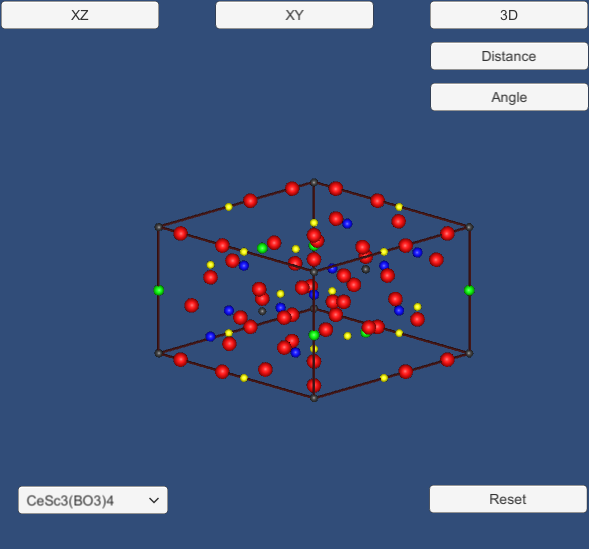
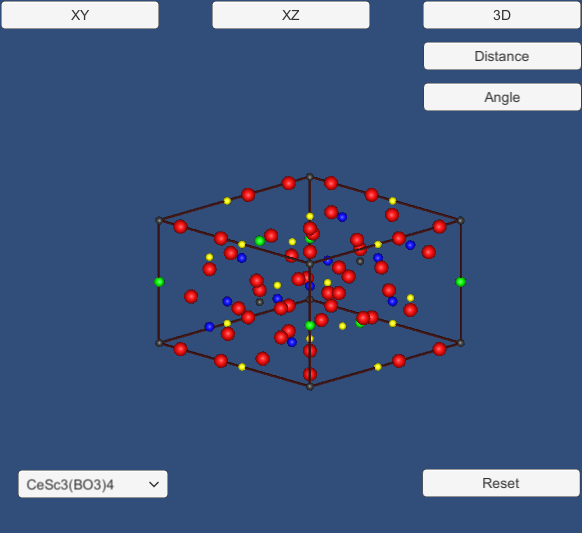
Что-то измененно

diff --git a/Assets/CreateElementsScript.cs b/Assets/CreateElementsScript.cs
@@ -46,6 +46,50 @@ public static class Info
         return d;
     }
     public static CreateElementsScript scr = null;
+
+    /* Получает на вход вектор с координатами 0..1
+    * А возвращет новый вектор (0..a,0..b,0..c)
+    */
+    public static void Scale(ref Vector3 vect)
+    {
+        vect.Set(vect.x * Info.a, vect.y * Info.b, vect.z * Info.c);
+    }
+
+    public static void normalize(ref Vector3 vect)
+    {
+        vect.x = vect.x < 0 ? vect.x + 1 : vect.x > 1 ? vect.x - 1 : vect.x;
+        vect.y = vect.y < 0 ? vect.y + 1 : vect.y > 1 ? vect.y - 1 : vect.y;
+        vect.z = vect.z < 0 ? vect.z + 1 : vect.z > 1 ? vect.z - 1 : vect.z;
+    }
+
+    public static float alpha = 120;
+
+    public static void transToUSC(ref Vector3 vect)
+    {
+        float alphaInRad = 2 * Mathf.PI / 360 * alpha;
+        vect.x = vect.x + vect.y * Mathf.Cos(alphaInRad);
+        vect.y = vect.y * Mathf.Sin(alphaInRad);
+    }
+
+    public static void YZSwap(ref Vector3 vect)
+    {
+        float k = vect.z;
+        vect.z = vect.y;
+        vect.y = k;
+    }
+
+    public static void transToOrt(ref Vector3 vect)
+    {
+        float alphaInRad = 2 * Mathf.PI / 360 * alpha;
+        vect.y = vect.y / Mathf.Sin(alphaInRad);
+        vect.x = vect.x - vect.y * Mathf.Cos(alphaInRad);
+
+    }
+
+    public static void deScale(ref Vector3 vect)
+    {
+        vect.Set(vect.x / Info.a, vect.y / Info.b, vect.z / Info.c);
+    }
 }
 
 public class CreateElementsScript : MonoBehaviour {
@@ -102,38 +146,9 @@ public class CreateElementsScript : MonoBehaviour {
     }
 
    
-    /* Получает на вход вектор с координатами 0..1
-     * А возвращет новый вектор (0..a,0..b,0..c)
-     */
-    void Scale(ref Vector3 vect)
-    {
-        vect.Set(vect.x * Info.a, vect.y * Info.b, vect.z * Info.c);
-    }
 
-    void normalize(ref Vector3 vect)
-    {
-        vect.x = vect.x < 0 ? vect.x + 1 : vect.x > 1 ? vect.x - 1 : vect.x;
-        vect.y = vect.y < 0 ? vect.y + 1 : vect.y > 1 ? vect.y - 1 : vect.y;
-        vect.z = vect.z < 0 ? vect.z + 1 : vect.z > 1 ? vect.z - 1 : vect.z;
-    }
 
-    private float alpha = 120;
-
-    void transToUSC(ref Vector3 vect)
-    {
-        float alphaInRad = 2*Mathf.PI/360*alpha;
-        vect.x = vect.x + vect.y * Mathf.Cos(alphaInRad);
-        vect.y = vect.y * Mathf.Sin(alphaInRad);
-    }
-
-    void YZSwap(ref Vector3 vect)
-    {
-        float k = vect.z;
-        vect.z = vect.y;
-        vect.y = k;
-    }
-
-    List<GameObject> ReplicateItem(GameObject obj,Vector3 locate)
+    List<GameObject> ReplicateItem(GameObject obj,Vector3 locate, bool addHiden)
     {
         List<GameObject> thisAtoms = new List<GameObject>();
         List<Vector3> list = new List<Vector3>();
@@ -148,17 +163,48 @@ public class CreateElementsScript : MonoBehaviour {
         for(int i=1; i <=list.Count; i++)
         {
             Vector3 el = list[i-1];
-            normalize(ref el);
-            Scale(ref el);
-            transToUSC(ref el);
-            YZSwap(ref el);
+            Info.normalize(ref el);
+            Info.Scale(ref el);
+            Info.transToUSC(ref el);
+            Info.YZSwap(ref el);
             if (HaveElement(el))
                 continue;
-            GameObject NewObj = (GameObject)Instantiate(obj, el, Quaternion.identity);
-            NewObj.name = "";
-            NewObj.name = NewObj.tag +" " + listInd[i-1].ToString();
-            NewObj.transform.parent = this.transform;
-            thisAtoms.Add(NewObj);
+            if (addHiden == false)
+            {
+                GameObject NewObj = (GameObject)Instantiate(obj, el, Quaternion.identity);
+                NewObj.name = "";
+                NewObj.name = NewObj.tag + " " + listInd[i - 1].ToString();
+                NewObj.transform.parent = this.transform;
+                thisAtoms.Add(NewObj);
+            }
+            else
+            {
+                for (float x = -1; x <= 1; x++)
+                    for (float y = -1; y <= 1; y++)
+                        for (float z = -1; z <= 1; z++)
+                        {
+                            Vector3 add = new Vector3(x, y, z);
+                            Info.Scale(ref add);
+                            Info.transToUSC(ref add);
+                            Info.YZSwap(ref add);
+                            add += el;
+                            GameObject NewObj = (GameObject)Instantiate(obj, add, Quaternion.identity);
+                            NewObj.name = "";
+                            Vector3 addSc = new Vector3(add.x,add.y,add.z);
+                            Info.YZSwap(ref addSc);
+                            Info.transToOrt(ref addSc);
+                            Info.deScale(ref addSc);
+                            if (addSc.x >= 0 && addSc.x <= 1 && addSc.y >= 0 
+                                && addSc.y <= 1 && addSc.z >= 0 && addSc.z <= 1)
+                                NewObj.SetActive(true);
+                            else
+                                NewObj.SetActive(false);
+                            NewObj.name = NewObj.tag + " " + listInd[i - 1].ToString();
+                            NewObj.transform.parent = this.transform;
+                            thisAtoms.Add(NewObj);
+                 
+                        }
+            }
         }
         return thisAtoms;
     }
@@ -263,54 +309,6 @@ public class CreateElementsScript : MonoBehaviour {
         return false;
     }
 
-    public void CreateLantans()
-    {
-        var children = new List<GameObject>();
-        foreach (Transform child in elements.transform) children.Add(child.gameObject);
-        children.ForEach(child => DestroyImmediate(child));
-        Info.a = 9.819f;
-        Info.b = 9.819f;
-        Info.c = 7.987f;
-        Info.lantans.Clear();
-        Info.scandiums.Clear();
-        Info.bors1.Clear();
-        Info.bors2.Clear();
-        Info.oxygens.Clear();
-        Info.lantans = ReplicateItem(LaPrefab, new Vector3(1f / 3, 2f / 3, 2f / 3));
-        Info.scandiums = ReplicateItem(ScPrefab, new Vector3(0.1179f, 1f / 3, 1f / 3));
-        Info.bors1 = ReplicateItem(B1Prefab, new Vector3(0f, 0.5487f, 1f / 2));
-        Info.bors2 = ReplicateItem(B2Prefab, new Vector3(0f, 0f, 1f / 2));
-        Info.oxygens = ReplicateItem(OPrefab, new Vector3(0.1406f, 0.6863f, 0.4818f));
-        Info.oxygens.AddRange(ReplicateItem(OPrefab, new Vector3(0f, 0.412f, 0.5f)));
-        Info.oxygens.AddRange(ReplicateItem(OPrefab, new Vector3(0.140f, 0.1398f, 0.5f)));
-        setCenter(); 
-    }
-
-    public void CreateNeodims()
-    {
-        var children = new List<GameObject>();
-        foreach (Transform child in transform) children.Add(child.gameObject);
-        children.ForEach(child => DestroyImmediate(child));
-        Info.a = 9.76333f;
-        Info.b = 9.76333f;
-        Info.c = 7.91922f;
-        Info.lantans.Clear();
-        Debug.Log("lc =" + Info.lantans.Count);
-        Info.scandiums.Clear();
-        Info.bors1.Clear();
-        Info.bors2.Clear();
-        Info.oxygens.Clear();
-        Debug.Log(this.transform.childCount);
-        Info.lantans = ReplicateItem(NdPrefab, new Vector3(0f, 0f, 0f));
-        Debug.Log("lc =" + Info.lantans.Count);
-        Info.scandiums = ReplicateItem(ScPrefab, new Vector3(0.54572f, 0f, 0f));
-        Info.bors1 = ReplicateItem(B1Prefab, new Vector3(0f, 0f, 1f / 2));
-        Info.bors2 = ReplicateItem(B2Prefab, new Vector3(0.44682f, 0f, 1f / 2));
-        Info.oxygens = ReplicateItem(OPrefab, new Vector3(0.587313f, 0f, 0.5f));
-        Info.oxygens.AddRange(ReplicateItem(OPrefab, new Vector3(0.45796f, 0.14626f, 0.52047f)));
-        Info.oxygens.AddRange(ReplicateItem(OPrefab, new Vector3(0.140f, 0f, 0.5f)));
-    }
-
     public void setCenter(Vector3 vec)
     {
         hantic.transform.localPosition = vec;
@@ -321,9 +319,9 @@ public class CreateElementsScript : MonoBehaviour {
     public void setCenter()
     {
         Vector3 vec = new Vector3(0.5f, 0.5f, 0.5f);
-        Scale(ref vec);
-        transToUSC(ref vec);
-        YZSwap(ref vec);
+        Info.Scale(ref vec);
+        Info.transToUSC(ref vec);
+        Info.YZSwap(ref vec);
         hantic.transform.localPosition = vec;
         elements.transform.localPosition = -vec;
         borders.transform.localPosition = -vec;
@@ -388,16 +386,17 @@ public class CreateElementsScript : MonoBehaviour {
         Element b1 = cur.elList.Find((Element i) => i.type == elementType.Bor1);
         Element b2 = cur.elList.Find((Element i) => i.type == elementType.Bor2);
         List<Element> o = cur.elList.FindAll((Element i) => i.type == elementType.Oxygen);
+        bool f = true;
         LaPrefab.name = la.elementName;
         ScPrefab.name = sc.elementName;
-        Info.lantans = ReplicateItem(LaPrefab, new Vector3(la.x, la.y,la.z));
-        Info.scandiums = ReplicateItem(ScPrefab, new Vector3(sc.x, sc.y, sc.z));
-        Info.bors1 = ReplicateItem(B1Prefab, new Vector3(b1.x, b1.y, b1.z));
-        Info.bors2 = ReplicateItem(B2Prefab, new Vector3(b2.x, b2.y, b2.z));
-        Info.oxygens = ReplicateItem(OPrefab, new Vector3(o[0].x, o[0].y, o[0].z));
+        Info.lantans = ReplicateItem(LaPrefab, new Vector3(la.x, la.y,la.z),f);
+        Info.scandiums = ReplicateItem(ScPrefab, new Vector3(sc.x, sc.y, sc.z),f);
+        Info.bors1 = ReplicateItem(B1Prefab, new Vector3(b1.x, b1.y, b1.z),f);
+        Info.bors2 = ReplicateItem(B2Prefab, new Vector3(b2.x, b2.y, b2.z),f);
+        Info.oxygens = ReplicateItem(OPrefab, new Vector3(o[0].x, o[0].y, o[0].z),f);
         for(int i = 1; i < o.Count; i++)
         {
-            Info.oxygens.AddRange(ReplicateItem(OPrefab, new Vector3(o[i].x, o[i].y, o[i].z)));
+            Info.oxygens.AddRange(ReplicateItem(OPrefab, new Vector3(o[i].x, o[i].y, o[i].z),f));
         }
         setCenter();
     }

diff --git a/Assets/XZClickScript.cs b/Assets/XZClickScript.cs
@@ -1,8 +1,8 @@
 using UnityEngine;
 using UnityEngine.UI;
-using System.Collections;
 using UnityEngine.SceneManagement;
 using System;
+using System.Collections.Generic;
 
 public class XZClickScript : MonoBehaviour
 {
@@ -65,16 +65,25 @@ public class XZClickScript : MonoBehaviour
 
     private void ShowAll()
     {
-        foreach (var bor in Info.bors1)
-            bor.SetActive(true);
-        foreach (var bor in Info.bors2)
-            bor.SetActive(true);
-        foreach (var scandium in Info.scandiums)
-            scandium.SetActive(true);
-        foreach (var la in Info.lantans)
-            la.SetActive(true);
-        foreach (var ox in Info.oxygens)
-            ox.SetActive(true);
+        List<GameObject> allElements = new List<GameObject>();
+        allElements.AddRange(Info.bors1);
+        allElements.AddRange(Info.bors2);
+        allElements.AddRange(Info.scandiums);
+        allElements.AddRange(Info.lantans);
+        allElements.AddRange(Info.oxygens);
+        foreach (var el in allElements)
+        {
+            Vector3 loc = new Vector3(el.transform.localPosition.x, el.transform.localPosition.y,
+                el.transform.localPosition.z);
+            Info.YZSwap(ref loc);
+            Info.transToOrt(ref loc);
+            Info.deScale(ref loc);
+            if (loc.x >= 0 && loc.x <= 1 && loc.y >= 0
+                && loc.y <= 1 && loc.z >= 0 && loc.z <= 1)
+                el.SetActive(true);
+            else
+                el.SetActive(false);
+        }
         Info.borders.SetActive(true);
 
     }

diff --git a/Assets/DblClickScript.cs b/Assets/DblClickScript.cs
@@ -46,8 +46,7 @@ public class DblClickScript : MonoBehaviour
         transToOrt(ref vect);
         deScale(ref vect);
 
-        if (((Time.time - doubleClickStart) < 0.3f) && vect.x != 0 && vect.x != 1
-            && vect.y != 0 && vect.y != 1 && vect.z != 0 && vect.z != 1)
+        if (((Time.time - doubleClickStart) < 0.3f))
         {
             OnDoubleClick();
             doubleClickStart = -1;
@@ -87,6 +86,10 @@ public class DblClickScript : MonoBehaviour
         if (this.gameObject.tag == "La" || this.gameObject.tag == "Sc" || this.gameObject.tag == "Nd")
         #region La Sc
         {
+            for (int i = 0; i < 6; i++)
+            {
+                oxygens[i].SetActive(true);
+            }
             for (int i = 6; i < oxygens.Length; i++)
             {
                 oxygens[i].SetActive(false);
@@ -126,6 +129,10 @@ public class DblClickScript : MonoBehaviour
         #endregion
         else
         {
+            for (int i = 0; i < 3; i++)
+            {
+                oxygens[i].SetActive(true);
+            }
             for (int i = 3; i < oxygens.Length; i++)
             {
                 oxygens[i].SetActive(false);
